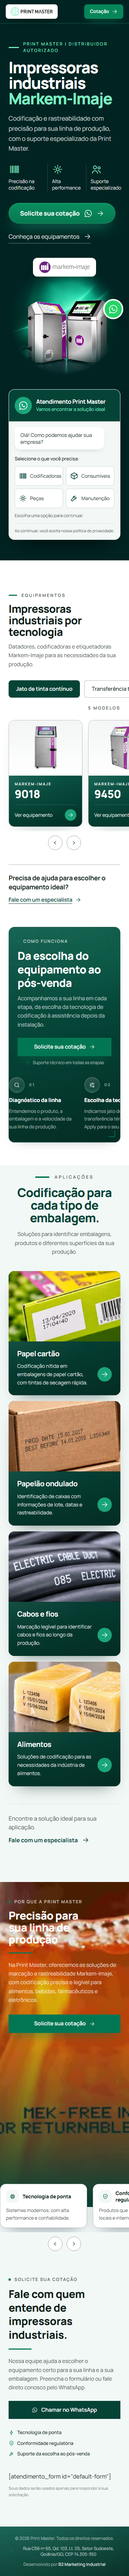
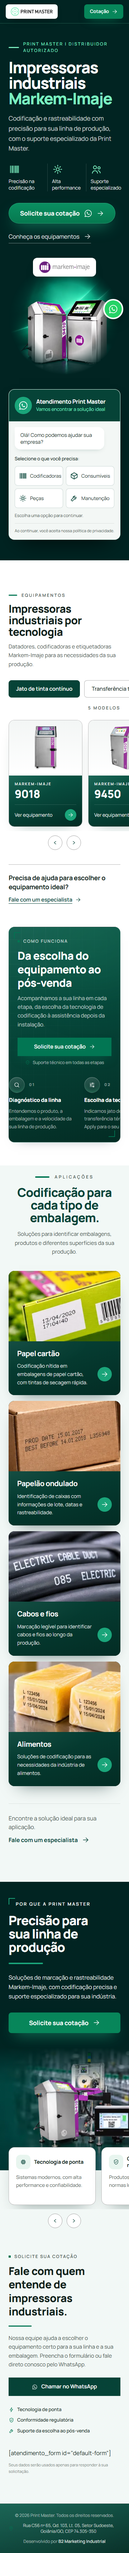
feat: diferenciais no mockup da Print Master
- a cena enviada pelo usuário (9410, Cimpak e SmartDate X45 diante de uma
  linha de envase) cobre o bloco inteiro e substitui a pessoa recortada;
  no celular, vem abaixo do texto;
- H2 maior com barra verde, texto curto do mockup e botão arredondado;
- cards com ícone em caixa menta e descrição inteira, sem corte;
- setas do trilho de cards no celular ligadas (data-why);
- variante local registrada no BRIEFING, ficha e manifesto atualizados.

diff --git a/src/data/sections/diferenciais.ts b/src/data/sections/diferenciais.ts
@@ -1,7 +1,8 @@
 /**
  * Dados da seção "Diferenciais" (biblioteca B2, fase: autoridade).
  *
- * Bloco navy em largura total com a frase de autoridade e a pessoa recortada, e 5
+ * Bloco navy em largura total com a frase de autoridade sobre a cena (variante local, sem a
+ * pessoa recortada), e 5
  * cards sobrepostos à base do bloco. São 5 exatos: o grid é `lg:grid-cols-5`.
  */
 import type { IconName } from '@data/icons'
@@ -9,7 +10,6 @@ import type { Photo } from '@data/types'
 import { site } from '@data/site'
 
 import cenario from '@assets/diferenciais/cenario.jpg'
-import pessoa from '@assets/diferenciais/pessoa.png'
 
 export interface Reason {
   icon: IconName
@@ -21,14 +21,12 @@ export const why = {
   eyebrow: `Por que a ${site.brandShort}`,
   /** Cada item é uma linha do H2 (quebra forçada). 3–6 palavras no total. */
   titleLines: ['Precisão para', 'sua linha de produção'],
-  text: 'Na Print Master, oferecemos as soluções de marcação e rastreabilidade Markem-Imaje, com codificação precisa e legível para alimentos, bebidas, farmacêuticos e eletrônicos.',
+  /** Mockup de 27/10/2026: texto curto, em duas linhas no desktop. */
+  text: 'Soluções de marcação e rastreabilidade Markem-Imaje, com codificação precisa e suporte especializado para sua indústria.',
+  /** Cena do bloco inteiro (mockup de 27/10/2026): os equipamentos já estão na foto. */
   scene: {
     src: cenario,
-    alt: 'Garrafa de vidro com código impresso por jato de tinta',
-  },
-  person: {
-    src: pessoa,
-    alt: 'Impressoras Markem-Imaje de jato de tinta, transferência térmica e Print & Apply',
+    alt: 'Impressoras Markem-Imaje 9410, Cimpak e SmartDate X45 diante de uma linha de envase',
   },
   reasons: [
     {
@@ -54,7 +52,7 @@ export const why = {
     {
       icon: 'gear',
       title: 'Codificação confiável',
-      description: 'Equipamentos de alta performance para a sua produção.',
+      description: 'Equipamentos de alta performance para sua linha de produção.',
     },
   ],
 } as const satisfies {
@@ -62,6 +60,5 @@ export const why = {
   titleLines: readonly string[]
   text: string
   scene: Photo
-  person: Photo
   reasons: readonly [Reason, Reason, Reason, Reason, Reason]
 }

diff --git a/docs/BRIEFING.md b/docs/BRIEFING.md
@@ -110,29 +110,29 @@ Derivada em: 26/10/2026 · comando aplicado: `npm run compose -- vitrine process
 | Banner do hero | `src/assets/heroBg.png`    | 1752×898, par de equipamentos a 52,5% da largura | entregue — imagem enviada pelo usuário em 26/10/2026 (9410 e 9750 com luz e reflexo) |
 | Selo da marca  | `src/assets/heroMarca.png` | logo Markem-Imaje recortado                      | entregue — logo da página atual do cliente                                           |
 
-| Asset                    | Arquivo esperado                          | Especificação               | Status                                                                                           |
-| ------------------------ | ----------------------------------------- | --------------------------- | ------------------------------------------------------------------------------------------------ |
-| Produtos da vitrine (12) | `src/assets/vitrine/produto-1…12.png`     | 800×600, fundo transparente | entregue — fotos do site, recortadas e centralizadas (9018 e 9450 tinham fundo branco, removido) |
-| Fotos das aplicações (4) | `src/assets/aplicacoes/aplicacao-1…4.jpg` | 8:5, 640×400                | **provisório** — recortadas do mockup de 27/10/2026 (400×250); pedir as fotos em alta            |
-| Cenário                  | `src/assets/diferenciais/cenario.jpg`     | 1600×900                    | **provisório** — garrafa de vidro codificada, da página atual                                    |
-| Pessoa                   | `src/assets/diferenciais/pessoa.png`      | 1220×1000, recortada        | **provisório** — três equipamentos recortados (9410, Cimpak, SmartDate X45) no lugar da pessoa   |
+| Asset                    | Arquivo esperado                          | Especificação               | Status                                                                                                            |
+| ------------------------ | ----------------------------------------- | --------------------------- | ----------------------------------------------------------------------------------------------------------------- |
+| Produtos da vitrine (12) | `src/assets/vitrine/produto-1…12.png`     | 800×600, fundo transparente | entregue — fotos do site, recortadas e centralizadas (9018 e 9450 tinham fundo branco, removido)                  |
+| Fotos das aplicações (4) | `src/assets/aplicacoes/aplicacao-1…4.jpg` | 8:5, 640×400                | **provisório** — recortadas do mockup de 27/10/2026 (400×250); pedir as fotos em alta                             |
+| Cenário                  | `src/assets/diferenciais/cenario.jpg`     | 1935×812, bloco inteiro     | entregue — imagem enviada pelo usuário em 27/10/2026 (9410, Cimpak e SmartDate X45 diante de uma linha de envase) |
 
 ## Desvios locais do padrão
 
-| Arquivo                                                                                                    | O que mudou                                                                                                                                                                                                                                            | Por quê                                                                                                                                                                                                                                                                                                                                                                                                                                                                                                |
-| ---------------------------------------------------------------------------------------------------------- | ------------------------------------------------------------------------------------------------------------------------------------------------------------------------------------------------------------------------------------------------------ | ------------------------------------------------------------------------------------------------------------------------------------------------------------------------------------------------------------------------------------------------------------------------------------------------------------------------------------------------------------------------------------------------------------------------------------------------------------------------------------------------------ |
-| `src/styles/global.css`                                                                                    | tokens com os verdes da marca; Manrope de `@fontsource-variable/manrope` com reserva de métricas Arial                                                                                                                                                 | entrada 14; a troca tardia do Google Fonts estourou o CLS no Lighthouse CI da LP de locação                                                                                                                                                                                                                                                                                                                                                                                                            |
-| `src/layouts/Layout.astro`                                                                                 | preload do woff2 latino no lugar dos links do Google Fonts                                                                                                                                                                                             | idem                                                                                                                                                                                                                                                                                                                                                                                                                                                                                                   |
-| `src/components/Header.astro`                                                                              | mockup de abertura (26/10/2026): barra verde-escura com fio menta, logo em caixa branca dentro da barra, tagline "Impressoras industriais" e CTA verde arredondado com seta                                                                            | pedido do usuário; ordem logo · tagline · CTA mantida                                                                                                                                                                                                                                                                                                                                                                                                                                                  |
-| `src/components/Hero.astro`, `src/data/content.ts`                                                         | 2º mockup de abertura (26/10/2026): eyebrow "Print Master                                                                                                                                                                                              | Distribuidor autorizado", H1 em três linhas com "Markem-Imaje" em menta, pontos sem caixa, botão em pílula com WhatsApp e link "Conheça os equipamentos" (âncora `#vitrine`, `data-cta="hero-secondary"`), selo Markem-Imaje sobre o 9410 e o 9750, banner ancorado pelo centro da coluna 2 (texto 440px · janela · chat 300px); fora do WordPress o shortcode cru do chat vira a prévia do widget (CTAs `hero-chat-codificadoras`, `-consumiveis`, `-pecas`, `-manutencao`) antes da primeira pintura | pedido do usuário; grid de três colunas e coluna de 300px do chat mantidos; o botão flutuante de WhatsApp do mockup espera o número comercial |
-| `src/components/sections/ProductShowcase.astro`, `src/data/sections/vitrine.ts`, `lp.manifest.json`        | variante local do mockup da vitrine (26/10/2026): grupos em abas acessíveis com a contagem de modelos, cards com foto grande e painel verde-escuro (marca, modelo em destaque, "Ver equipamento"), faixa "Precisa de ajuda…" com o CTA `vitrine-ajuda` | pedido do usuário; **o `compose` sobrescreve o componente** — reaplicar após recompor                                                                                                                                                                                                                                                                                                                                                                                                                  |
-| `src/components/Hero.astro` (banner)                                                                       | o banner é dimensionado pela largura entre o texto e o chat (`--photo-w`), ancorado pela base e pelo centro do par (52,5%); fundo do header e do hero em `--color-hero-deep` (#012422, a borda da imagem)                                              | o par de equipamentos tem sempre a largura da janela, em qualquer tela                                                                                                                                                                                                                                                                                                                                                                                                                                 |
-| `src/components/WhatsAppFloat.astro`, `src/layouts/Layout.astro`                                           | o botão flutuante aparece sem número: vira `button.btn-slave-whats` com `data-cta="float-whatsapp"` (o plugin abre a conversa); com número, volta a ser o link `wa.me`                                                                                 | mockup de 26/10/2026; o número comercial segue pendente                                                                                                                                                                                                                                                                                                                                                                                                                                                |
-| `src/data/icons.ts`                                                                                        | ícone `whatsapp` trocado pelo glifo do WhatsApp (Tabler Icons, MIT)                                                                                                                                                                                    | o balão genérico não era reconhecido como WhatsApp                                                                                                                                                                                                                                                                                                                                                                                                                                                     |
-| `src/components/sections/ApplicationsGallery.astro`, `src/data/sections/aplicacoes.ts`, `lp.manifest.json` | variante local do mockup das aplicações (27/10/2026): cabeçalho centrado com H2 em duas linhas, cards com foto 8:5 recortada do mockup e corpo verde-escuro, faixa "Encontre a solução ideal…" com o CTA `aplicacoes-cta`                              | pedido do usuário; **o `compose` sobrescreve o componente** — reaplicar após recompor                                                                                                                                                                                                                                                                                                                                                                                                                  |
-| `scripts/check-lp.mjs`                                                                                     | assinaturas A8 do Header e do Hero repinadas, com comentário datado                                                                                                                                                                                    | o redesenho do mockup trocou as classes que o check conferia                                                                                                                                                                                                                                                                                                                                                                                                                                           |
-| `src/components/sections/ProcessSteps.astro`, `WhyBrand.astro`                                             | brilho do botão em `rgba(2,118,83,0.6)` no lugar do laranja fixo                                                                                                                                                                                       | idem; **o `compose` sobrescreve estes dois** — reaplicar após recompor                                                                                                                                                                                                                                                                                                                                                                                                                                 |
-| `src/components/BrandCarousel.astro`, `src/data/brands.ts`, `src/assets/brands/`                           | removidos                                                                                                                                                                                                                                              | nenhuma seção da composição usa o carrossel (regra 12)                                                                                                                                                                                                                                                                                                                                                                                                                                                 |
+| Arquivo                                                                                                    | O que mudou                                                                                                                                                                                                                                                                                                   | Por quê                                                                                                                                                                                                                                                                                                                                                                                                                                                                                                |
+| ---------------------------------------------------------------------------------------------------------- | ------------------------------------------------------------------------------------------------------------------------------------------------------------------------------------------------------------------------------------------------------------------------------------------------------------- | ------------------------------------------------------------------------------------------------------------------------------------------------------------------------------------------------------------------------------------------------------------------------------------------------------------------------------------------------------------------------------------------------------------------------------------------------------------------------------------------------------ |
+| `src/styles/global.css`                                                                                    | tokens com os verdes da marca; Manrope de `@fontsource-variable/manrope` com reserva de métricas Arial                                                                                                                                                                                                        | entrada 14; a troca tardia do Google Fonts estourou o CLS no Lighthouse CI da LP de locação                                                                                                                                                                                                                                                                                                                                                                                                            |
+| `src/layouts/Layout.astro`                                                                                 | preload do woff2 latino no lugar dos links do Google Fonts                                                                                                                                                                                                                                                    | idem                                                                                                                                                                                                                                                                                                                                                                                                                                                                                                   |
+| `src/components/Header.astro`                                                                              | mockup de abertura (26/10/2026): barra verde-escura com fio menta, logo em caixa branca dentro da barra, tagline "Impressoras industriais" e CTA verde arredondado com seta                                                                                                                                   | pedido do usuário; ordem logo · tagline · CTA mantida                                                                                                                                                                                                                                                                                                                                                                                                                                                  |
+| `src/components/Hero.astro`, `src/data/content.ts`                                                         | 2º mockup de abertura (26/10/2026): eyebrow "Print Master                                                                                                                                                                                                                                                     | Distribuidor autorizado", H1 em três linhas com "Markem-Imaje" em menta, pontos sem caixa, botão em pílula com WhatsApp e link "Conheça os equipamentos" (âncora `#vitrine`, `data-cta="hero-secondary"`), selo Markem-Imaje sobre o 9410 e o 9750, banner ancorado pelo centro da coluna 2 (texto 440px · janela · chat 300px); fora do WordPress o shortcode cru do chat vira a prévia do widget (CTAs `hero-chat-codificadoras`, `-consumiveis`, `-pecas`, `-manutencao`) antes da primeira pintura | pedido do usuário; grid de três colunas e coluna de 300px do chat mantidos; o botão flutuante de WhatsApp do mockup espera o número comercial |
+| `src/components/sections/ProductShowcase.astro`, `src/data/sections/vitrine.ts`, `lp.manifest.json`        | variante local do mockup da vitrine (26/10/2026): grupos em abas acessíveis com a contagem de modelos, cards com foto grande e painel verde-escuro (marca, modelo em destaque, "Ver equipamento"), faixa "Precisa de ajuda…" com o CTA `vitrine-ajuda`                                                        | pedido do usuário; **o `compose` sobrescreve o componente** — reaplicar após recompor                                                                                                                                                                                                                                                                                                                                                                                                                  |
+| `src/components/Hero.astro` (banner)                                                                       | o banner é dimensionado pela largura entre o texto e o chat (`--photo-w`), ancorado pela base e pelo centro do par (52,5%); fundo do header e do hero em `--color-hero-deep` (#012422, a borda da imagem)                                                                                                     | o par de equipamentos tem sempre a largura da janela, em qualquer tela                                                                                                                                                                                                                                                                                                                                                                                                                                 |
+| `src/components/WhatsAppFloat.astro`, `src/layouts/Layout.astro`                                           | o botão flutuante aparece sem número: vira `button.btn-slave-whats` com `data-cta="float-whatsapp"` (o plugin abre a conversa); com número, volta a ser o link `wa.me`                                                                                                                                        | mockup de 26/10/2026; o número comercial segue pendente                                                                                                                                                                                                                                                                                                                                                                                                                                                |
+| `src/data/icons.ts`                                                                                        | ícone `whatsapp` trocado pelo glifo do WhatsApp (Tabler Icons, MIT)                                                                                                                                                                                                                                           | o balão genérico não era reconhecido como WhatsApp                                                                                                                                                                                                                                                                                                                                                                                                                                                     |
+| `src/components/sections/ApplicationsGallery.astro`, `src/data/sections/aplicacoes.ts`, `lp.manifest.json` | variante local do mockup das aplicações (27/10/2026): cabeçalho centrado com H2 em duas linhas, cards com foto 8:5 recortada do mockup e corpo verde-escuro, faixa "Encontre a solução ideal…" com o CTA `aplicacoes-cta`                                                                                     | pedido do usuário; **o `compose` sobrescreve o componente** — reaplicar após recompor                                                                                                                                                                                                                                                                                                                                                                                                                  |
+| `src/components/sections/WhyBrand.astro`, `src/data/sections/diferenciais.ts`, `lp.manifest.json`          | variante local do mockup dos diferenciais (27/10/2026): a cena cobre o bloco inteiro (no celular, vem abaixo do texto) e a pessoa recortada saiu; H2 maior com barra verde, texto curto, botão arredondado, cards com ícone em caixa menta e descrição sem corte; setas do trilho mobile ligadas (`data-why`) | pedido do usuário; **o `compose` sobrescreve o componente** — reaplicar após recompor                                                                                                                                                                                                                                                                                                                                                                                                                  |
+| `scripts/check-lp.mjs`                                                                                     | assinaturas A8 do Header e do Hero repinadas, com comentário datado                                                                                                                                                                                                                                           | o redesenho do mockup trocou as classes que o check conferia                                                                                                                                                                                                                                                                                                                                                                                                                                           |
+| `src/components/sections/ProcessSteps.astro`, `WhyBrand.astro`                                             | brilho do botão em `rgba(2,118,83,0.6)` no lugar do laranja fixo                                                                                                                                                                                                                                              | idem; **o `compose` sobrescreve estes dois** — reaplicar após recompor                                                                                                                                                                                                                                                                                                                                                                                                                                 |
+| `src/components/BrandCarousel.astro`, `src/data/brands.ts`, `src/assets/brands/`                           | removidos                                                                                                                                                                                                                                                                                                     | nenhuma seção da composição usa o carrossel (regra 12)                                                                                                                                                                                                                                                                                                                                                                                                                                                 |
 
 ## Conflitos com o padrão
 

diff --git a/docs/FICHA-LP.md b/docs/FICHA-LP.md
@@ -266,8 +266,9 @@ blocos:
     papeis: [Engenharia, Compras]
     eyebrow: Por que a Print Master
     titleLines: [Precisão para, sua linha de produção]
-    text: Na Print Master, oferecemos as soluções de marcação e rastreabilidade Markem-Imaje, com codificação precisa e legível para alimentos, bebidas, farmacêuticos e eletrônicos.
-    scene: Garrafa de vidro com código impresso por jato de tinta
+    # variante local do mockup de 27/10/2026: cena única no bloco, sem pessoa recortada
+    text: Soluções de marcação e rastreabilidade Markem-Imaje, com codificação precisa e suporte especializado para sua indústria.
+    scene: Impressoras Markem-Imaje 9410, Cimpak e SmartDate X45 diante de uma linha de envase
     person: Impressoras Markem-Imaje de jato de tinta, transferência térmica e Print & Apply
     reasons:
       - icon: cpu
@@ -284,7 +285,7 @@ blocos:
         description: Menor consumo de energia e de materiais na operação.
       - icon: gear
         title: Codificação confiável
-        description: Equipamentos de alta performance para a sua produção.
+        description: Equipamentos de alta performance para sua linha de produção.
 
   perguntas:
     veredicto: insuficiente
